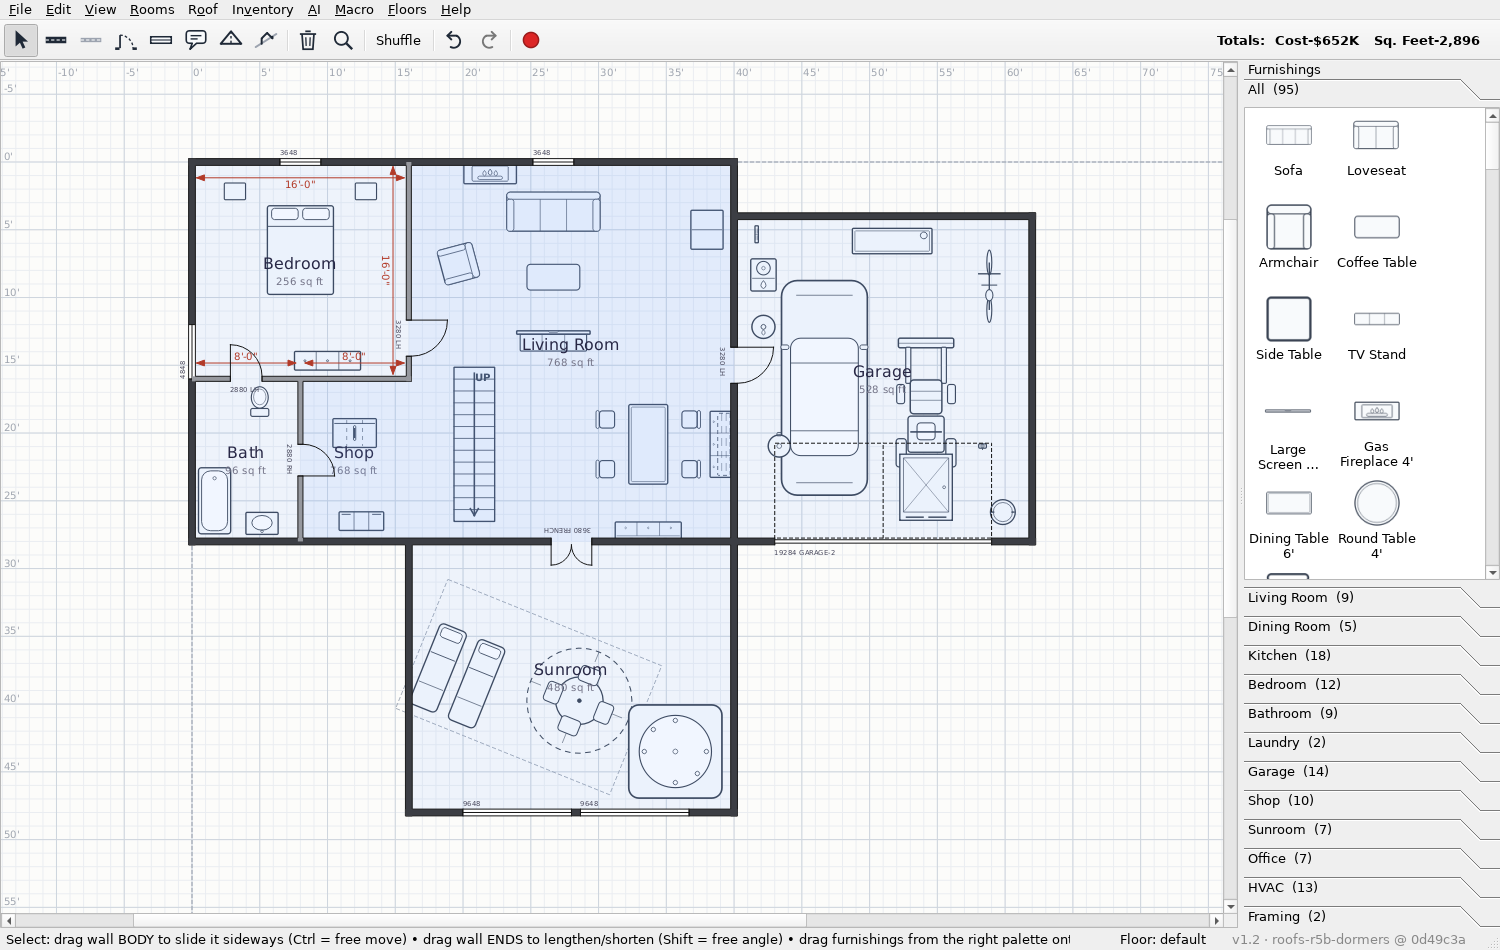
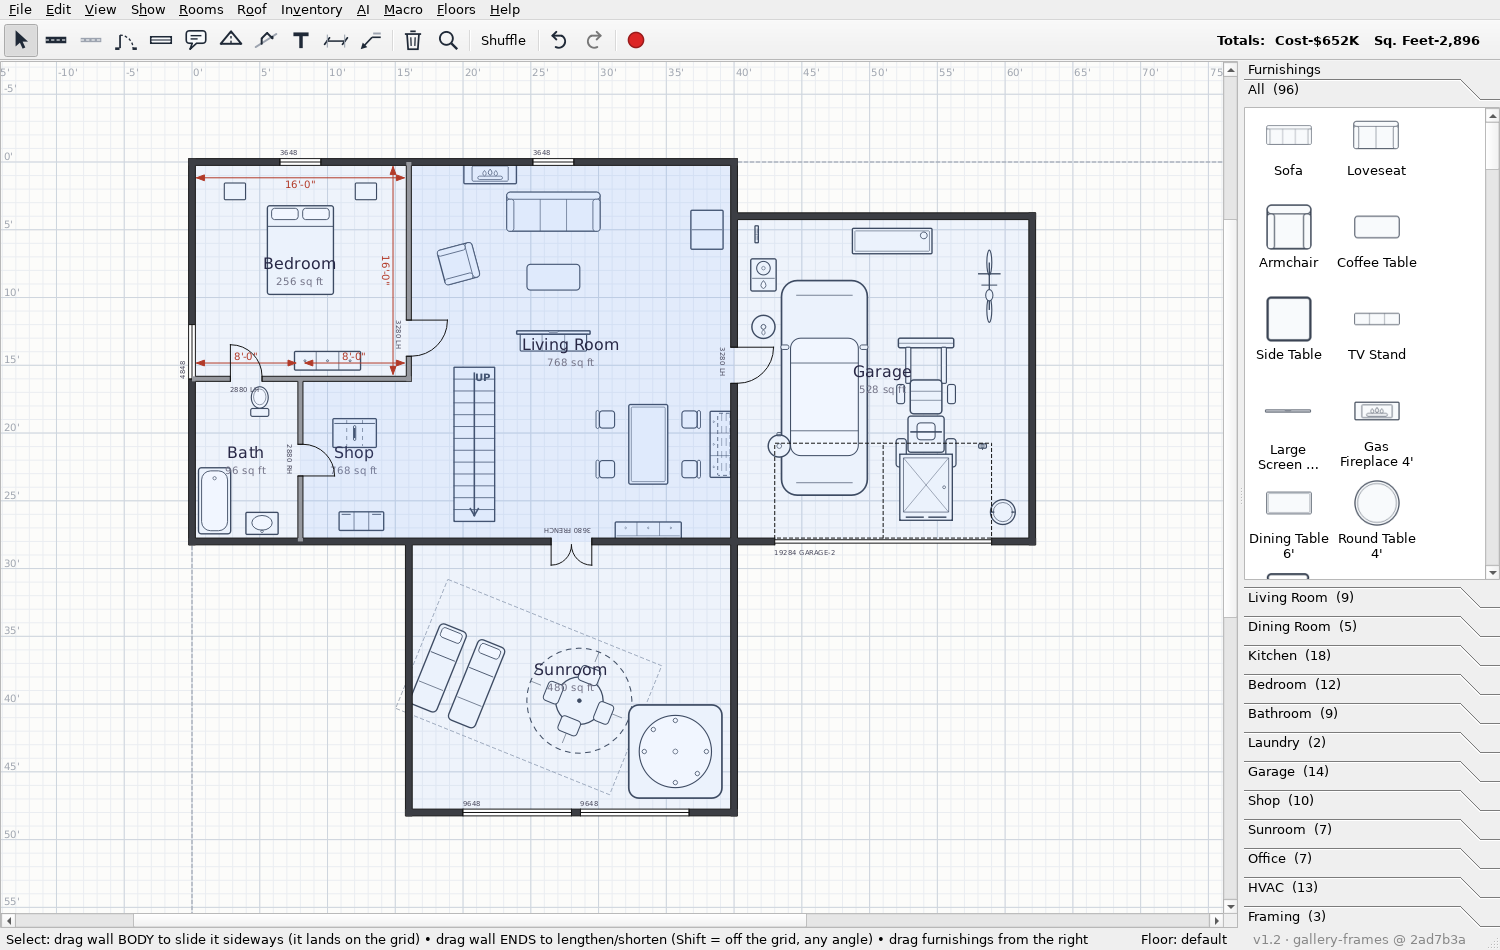
The gallery regenerated with four new frames (0273-report.md; his words "regenerate the gallery with roofs, annotations and 3D frames"). docs/make_gallery.py: build_roofs puts a gable over the main block (eaves 96, ridge 156, 12 in overhang), a hip over the garage with a 60 in run per end, a shed ov
Claude-Session: https://claude.ai/code/session_01TzcMGU4GsxQiU39hJHkU6x

Changed region(s): [[0.184, 0.9768, 0.9813, 1.0], [0.092, 0.0, 0.4293, 0.0611]]

diff --git a/docs/make_gallery.py b/docs/make_gallery.py
@@ -7,7 +7,9 @@ few dialog shots.  Run with:  python docs/make_gallery.py
 import html
 import math
 import os
+import subprocess
 import sys
+import tempfile
 
 os.environ["QT_QPA_PLATFORM"] = "offscreen"
 ROOT = os.path.dirname(os.path.dirname(os.path.abspath(__file__)))
@@ -20,6 +22,9 @@ from PyQt6.QtWidgets import (QApplication, QHBoxLayout, QLabel, QVBoxLayout,
                              QWidget)
 
 import FloorPlanner as FP
+from floorplanner.annotations import (  # not re-exported by the package
+    DatumItem, DimensionItem, LeaderItem, TextAnnotationItem, sync_annotation_visibility,
+)
 from floorplanner.vertex import Vertex
 
 os.environ.setdefault("QT_QPA_FONTDIR", str(FP.FONT_DIR))
@@ -316,6 +321,9 @@ def build_kitchen():
 # ---------------------------------------------------------------------------
 win, h = build()
 rooms, items, group, stair = h["rooms"], h["items"], h["group"], h["stair"]
+# the item callouts (0264: on whenever a plan opens) are a layer of their own;
+# the classic frames show the plan without them, frame 19 shows them on
+FP.SETTINGS["show_callouts"] = False
 
 # 1. overview (also the README hero)
 frame(win, "01-overview", palette="All", tool=FP.TOOL_SELECT)
@@ -475,5 +483,86 @@ rec.edit.moveCursor(QTextCursor.MoveOperation.Start)
 rec.edit.find('PUP 252 90 DOWN ENTER BACKSPACE TYPE "4466" ENTER')
 rec._sync_buttons()
 shot_widget(rec, "16-macro-recorder", size=(600, 440))
+
+
+
+# --- roofs, annotations, 3D (0273) -------------------------------------------
+def build_roofs(win):
+    """Three roof forms on the demo house: a gable over the main block with
+    a dormer on its south slope (the DORMER macro command builds the dormer
+    the way the Dormer tool does, no dialog), a HIP over the garage, and a
+    SHED over the sunroom. Returns the main roof."""
+    sc = win.scene
+    main = FP.RoofItem(QPointF(-12, 168), QPointF(492, 168),
+                       eaves_h_in=96.0, ridge_h_in=156.0, overhang_in=12.0,
+                       gable=[True, True], span_in=168.0, marker_end=1)
+    sc.addItem(main)
+    garage = FP.RoofItem(QPointF(480, 192), QPointF(756, 192),
+                         eaves_h_in=96.0, ridge_h_in=138.0, overhang_in=12.0,
+                         gable=[False, False], span_in=144.0, marker_end=1,
+                         hip_run_in=[60.0, 60.0])
+    sc.addItem(garage)
+    # a shed: the ridge is its HIGH edge, on the house wall; the one plane
+    # falls to the left of the ridge's direction (south here), its span the
+    # depth to the eaves line and its overhang past that (0262's recipe)
+    sun = FP.RoofItem(QPointF(180, 336), QPointF(492, 336),
+                      eaves_h_in=84.0, ridge_h_in=120.0, overhang_in=[12.0, 0.0],
+                      gable=[True, True], span_in=[240.0, 0.0], marker_end=1,
+                      form="shed")
+    sc.addItem(sun)
+    win._set_show_roofs(True)
+    win._set_edit_roofs(True)
+    res = win.run_macro("DORMER 300 300 72 116 140")
+    assert res["ok"], res["errors"]
+    win._commit_if_changed()
+    return main
+
+
+main_roof = build_roofs(win)
+
+# 17. roofs: the three forms, the dormer, the grips (Roof > Edit roof on)
+frame(win, "17-roofs", rect=(-40, -40, 820, 640), palette="All",
+      select=[main_roof], tool=FP.TOOL_SELECT)
+
+# 18. the End-On dialog: the section the roof's parameters edit
+shot_widget(FP.RoofEndOnDialog(main_roof, win), "18-roof-end-on", size=(980, 620))
+
+# 19. annotations: a text, a measure (selected: its four knobs), a leader,
+#     the datum, and the item callouts in their one font and colour
+FP.SETTINGS["show_callouts"] = True
+win._set_edit_roofs(False)
+win._set_show_roofs(False)
+rooms["Bedroom"].show_dims = False          # the room's own arrows would compete
+rooms["Bedroom"].update()
+sc = win.scene
+sc.addItem(TextAnnotationItem(QPointF(16, -40), "NORTH ELEVATION  -  bedroom wing"))
+dim = DimensionItem(QPointF(0, 0), QPointF(192, 0), offset_in=-30.0)
+sc.addItem(dim)
+sc.addItem(DimensionItem(QPointF(0, 0), QPointF(0, 192), offset_in=30.0))
+sc.addItem(LeaderItem(QPointF(120, 176), QPointF(236, 150), "Dresser: relocate under window"))
+sc.addItem(DatumItem(QPointF(0, 192)))
+sync_annotation_visibility(sc)
+frame(win, "19-annotations", rect=(-70, -70, 340, 300), palette="All",
+      select=[dim], tool=FP.TOOL_SELECT)
+FP.SETTINGS["show_callouts"] = False
+rooms["Bedroom"].show_dims = True
+
+# 20. the 3D view: the same demo plan, rendered by the Qt Quick 3D viewer
+#     (fp3dq --shot, in its own process on the windows platform: Quick 3D
+#     needs a real GPU surface, which the offscreen platform does not give)
+win._set_show_roofs(True)
+tmp = os.path.join(tempfile.gettempdir(), "fp_gallery_demo.json")
+win.save_path(tmp)
+shot = os.path.join(GALLERY, "20-3d-view.png")
+env = dict(os.environ, QT_QPA_PLATFORM="windows")
+res = subprocess.run([sys.executable, "-m", "floorplanner.viewer.fp3dq", tmp,
+                      "--shot", shot, "--yaw", "35", "--pitch", "-22",
+                      "--zoom", "1.15", "--fov", "28", "--shot-delay", "1500"],
+                     env=env, capture_output=True, text=True, timeout=180)
+if res.returncode != 0 or not os.path.exists(shot):
+    print("3D shot FAILED:", res.stdout[-400:], res.stderr[-400:])
+    sys.exit(1)
+print("saved", shot)
+os.remove(tmp)
 
 print("gallery complete")

diff --git a/docs/SESSION_SNAPSHOT.md b/docs/SESSION_SNAPSHOT.md
@@ -1,4 +1,4 @@
-<!-- SNAPSHOT-HEAD: 2ad7b3a -->
+<!-- SNAPSHOT-HEAD: 46b5a23 -->
 
 # Session snapshot — read this first
 
@@ -248,8 +248,8 @@ each name a ruling and an unrelated report (§0 lists the later ones).
 
 | | |
 |---|---|
-| **`main`** | **`2ad7b3a`** at this file's cut — [`0272`](handoff/0272-report.md) landed there (PR #89's merge recorded); this commit lands [`0273-report.md`](handoff/0273-report.md), the gallery regenerated on `gallery-frames` (one commit on this tip, AMBER). **Owed next: his look at the frames; nothing else ordered (his backlog named: DXF export of annotations; 0248's items 8 and 9).** Every PR through #89 is merged (#59 was closed, superseded by #60). |
-| **Branches** | **`gallery-frames`** — ONE commit on this tip, AMBER, waiting on his look ([`0273`](handoff/0273-report.md)). |
+| **`main`** | **`46b5a23`** at this file's cut — [`0273`](handoff/0273-report.md) landed there (the gallery reported). This commit is `gallery-frames`'s one commit on that tip: the twenty frames and the hero regenerated, four of them new, AMBER. **Owed next: his look; nothing else ordered (his backlog named).** Every PR through #89 is merged (#59 was closed, superseded by #60). |
+| **Branches** | **`gallery-frames`** — this commit, ONE on `main`'s tip, AMBER, waiting on his look ([`0273`](handoff/0273-report.md)). |
 | **Gate** | full mode, re-run for this commit. GREEN — see this commit's own gate run. The **7 deselected are the PERF LANE** (standing P3.8 flap-class ruling). |
 | **Records** | **88 records, 31 open** (D88 CLOSED 2026‑10‑11, `closed_by 6ee358b`; D87 CLOSED 2026‑10‑11, `closed_by d90f8b4`; D67 CLOSED 2026‑10‑07, `closed_by cdc54de`, [`0225`](handoff/0225-report.md); D50 CLOSED 2026‑09‑25, R6.0, `closed_by b8475b7`). D75 an accepted limit, D44's precedent; D76 the non-compositing renderer limit, cross-referenced to D69; D77 a tooling gap in `fp3d.py --shot`. D78 CLOSED (fixed 2026‑08‑16, `handoff/0027-ruling.md`). D80 CLOSED (fixed 2026‑08‑22, closed 2026‑08‑23 on Patrick's own check, `handoff/0088-ruling.md`, merged `main` at `ac6d763`). **D81/D82 CLOSED 2026‑08‑30** — `fp2pdf.py`'s door symbols and dimension-fraction formatting, fixed and merged, `handoff/0122-report.md`. **D83/D84 OPEN, filed 2026‑09‑02** — two macro-recorder gaps Patrick found, held for later, not scheduled. **D85 CLOSED 2026‑09‑05** — a very short roof ridge (or a thin-span one) was unselectable because its shape only covered the ridge, not the dashed eave/gable lines; fixed and confirmed on his own check, merged with R3b. `python tools/gate.py --docs` GREEN. |
 | **Working tree** | see §5 — check `git status --untracked-files=all` before believing a census disagreement. |

diff --git a/docs/gallery/README.md b/docs/gallery/README.md
@@ -10,7 +10,7 @@ The whole plan at a glance — walls, rooms, furnishings and the toolbar
 ![Overview](01-overview.png)
 
 ### Furnishings at true scale
-A bundled CC0 library of 70 top-view symbols; drag from the right-hand
+A bundled CC0 library of 96 top-view symbols; drag from the right-hand
 palette and each lands at its real footprint.
 
 ![Furnishings](02-furnishings.png)
@@ -107,3 +107,40 @@ select any portion and **Replay** it, or **Save As** a `.fpm` file to run
 later with `fp_macro.py`.
 
 ![Macro recorder](16-macro-recorder.png)
+
+### Roofs
+Three roof forms on one house: a **gable** over the main block with a
+**dormer** on its south slope (sketched the way the Dormer tool does it —
+its sides and face projected up from the host roof), a **hip** over the
+garage with a settable run per end, and a **shed** over the sunroom. Roofs
+clip each other along their valleys; the grips (*Roof ▸ Edit roof*) move a
+ridge, an end or the eaves.
+
+![Roofs](17-roofs.png)
+
+### The End-On dialog
+The section a roof's parameters edit, drawn as it is edited: ridge and eaves
+heights, the pitch, the form, the eaves span and overhang per side, each end
+gable or hip with its run.
+
+![Roof End-On dialog](18-roof-end-on.png)
+
+### Annotations, measurements, leaders and item callouts
+A **text** (the T tool), two **measures** (the L tool: each end snapped to a
+corner, one thin line with a slash at each callout point, the length in
+feet-and-inches; the selected one shows its four small black knobs), a
+**leader** (the N tool: an arrow at the point, the text on a short
+shoulder), the level's **datum**, and the **item callouts** — every item's
+session label (`W7`, `V12`, `O3`, `R2`, `F4`) in one small font and one
+colour, the labels the Malformed-design report speaks in. The **Show** menu
+switches each layer on its own.
+
+![Annotations](19-annotations.png)
+
+### 3D view
+The same plan rendered by the Qt Quick 3D viewer (**View ▸ 3D view**, or
+`python -m floorplanner.viewer.fp3dq plan.json --shot out.png` from the
+command line): walls cut by their openings, floors, the three roofs and
+the dormer, furnishings as blocks.
+
+![3D view](20-3d-view.png)
